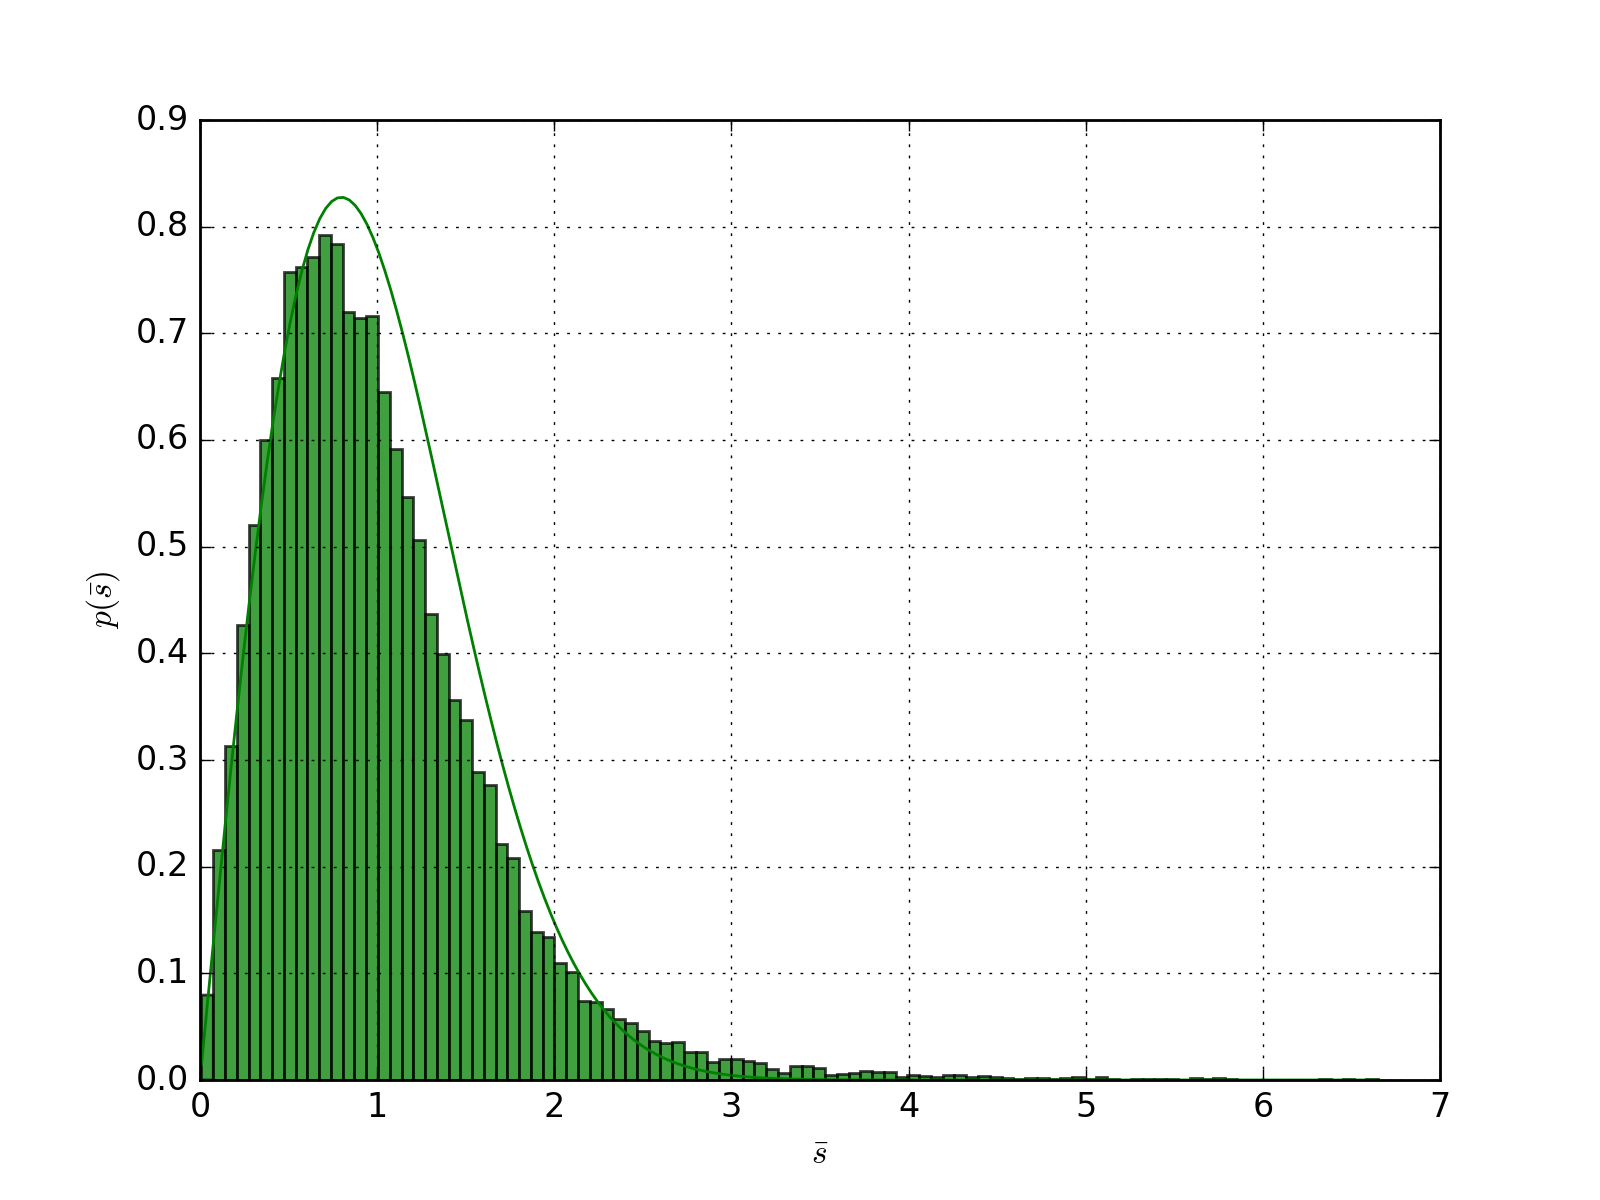
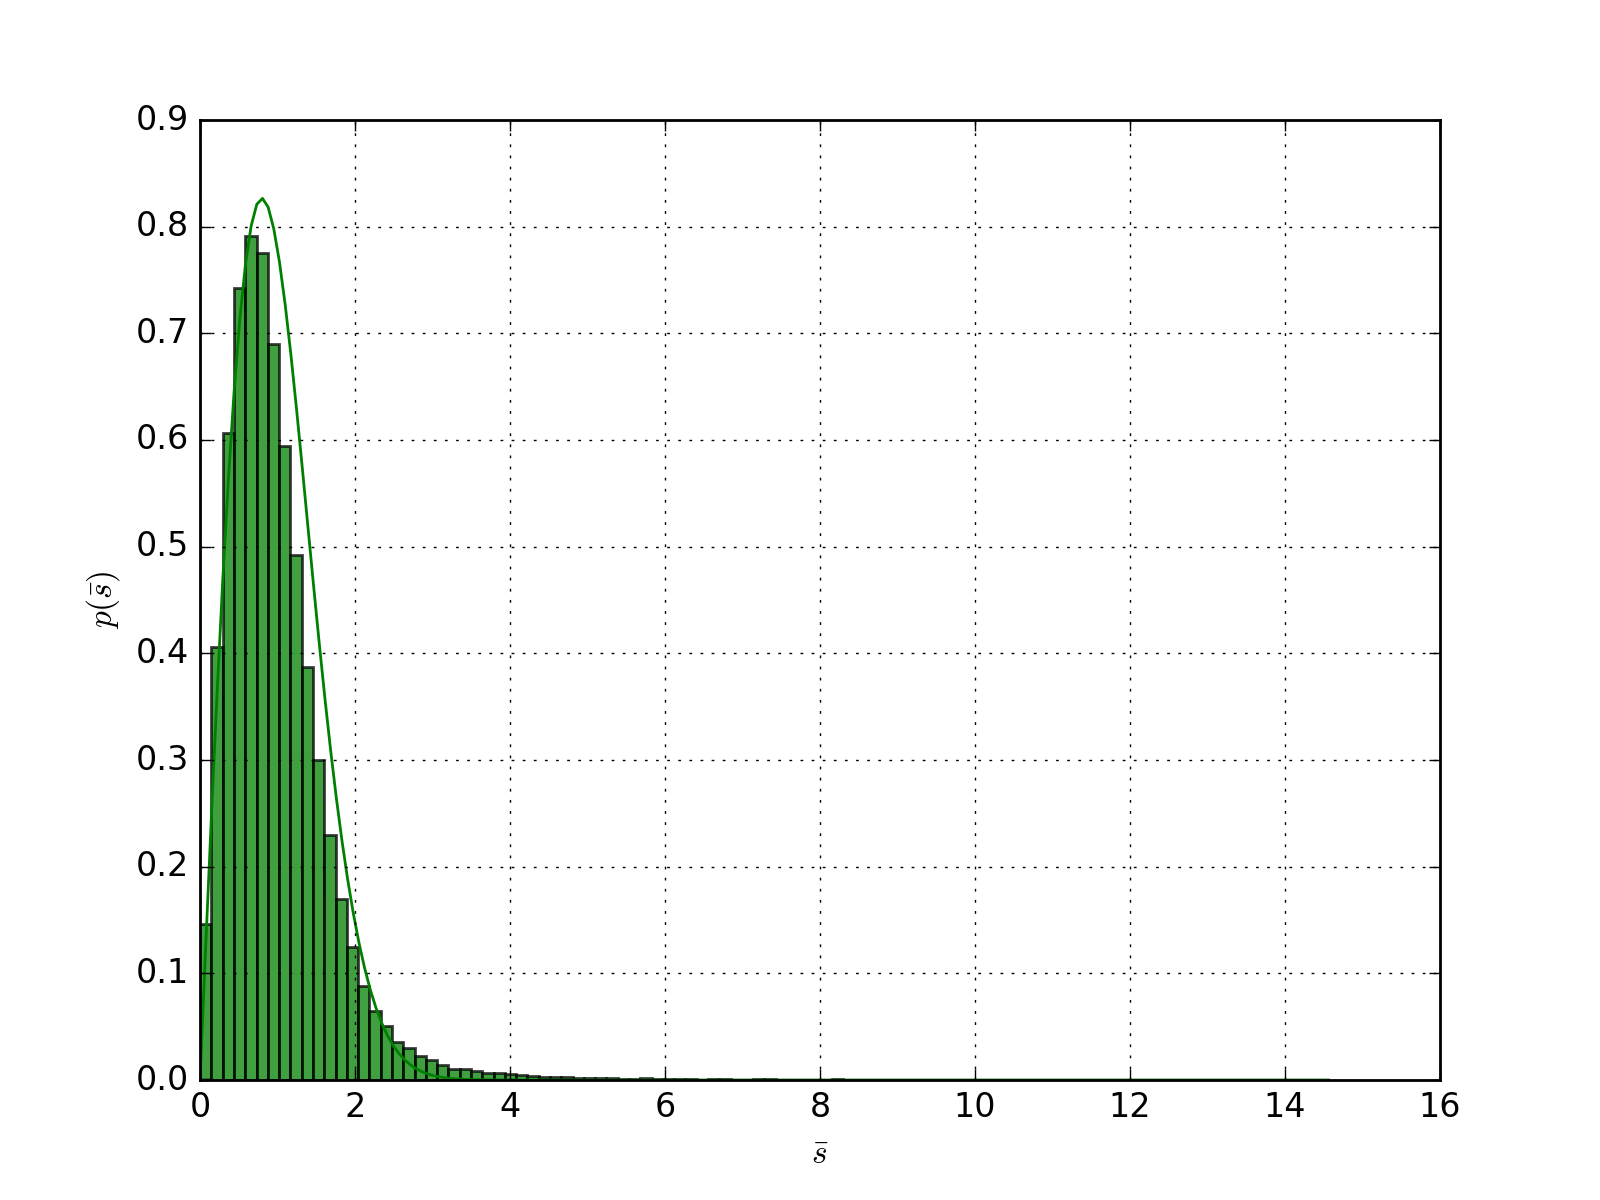
Refactoring in lab4

diff --git a/scripts/lab4.py b/scripts/lab4.py
@@ -28,16 +28,27 @@ def plotRhoHist(data, xLabel, yLabel, fileName, color):
     plt.savefig(fileName, format = 'png', dpi = 200)
     plt.clf()
 
-def plotHist():
-    pass
+def plotLevelSpacingsHist(data, xLabel, yLabel, testDistr,
+        distrArgMax, fileName, color):
+    plt.xlabel(xLabel)
+    plt.ylabel(yLabel)
+    n, bins, _ = plt.hist(data, 100, normed = True,
+        facecolor = color, alpha = 0.75)
+
+    c = np.amax(n) / testDistr(distrArgMax)
+    f = np.vectorize(lambda x: c*testDistr(x))
+    sGrid = np.linspace(np.amin(bins), np.amax(bins), 200)
+    plt.plot(sGrid, f(sGrid), color[0] + '-')
+
+    plt.grid()
+    plt.savefig(fileName, format = 'png', dpi = 200)
+    plt.clf()
 
 def main():
 
     np.random.seed(10)
-
-    size = 100
-    nImpls = 300
-    nBins = 100
+    size = 1000
+    nImpls = 100
 
     goeEigens = []
     gueEigens = []
@@ -67,36 +78,13 @@ def main():
     goeSplits = np.array(goeSplits).reshape(nImpls*len(goeSplits[0]))
     gueSplits = np.array(gueSplits).reshape(nImpls*len(gueSplits[0]))
 
-    plt.xlabel(r'$\bar{s}$')
-    plt.ylabel(r'$p(\bar{s})$')
-    n, bins, patches = plt.hist(goeSplits, 100, normed = True,
-        facecolor = 'green', alpha = 0.75)
+    plotLevelSpacingsHist(goeSplits, r'$\bar{s}$', r'$p(\bar{s})$',
+        lambda x: x*np.exp(-np.pi * 0.25 * x**2), 2. / np.pi,
+        '../pictures/lab4_goe_split_hist.png', 'green')
 
-    f = lambda x: x*np.exp(-np.pi / 4. * x**2)
-    c = np.amax(n) / f(2. / np.pi) #np.pi / 2.
-    f = np.vectorize(lambda x: c*x*np.exp(-np.pi / 4. * x**2))
-    sGrid = np.linspace(np.amin(bins), np.amax(bins), 200)
-    plt.plot(sGrid, f(sGrid), 'g-')
-
-    print(np.amax(n), f(2. / np.pi))
-    plt.grid()
-    plt.savefig('../pictures/lab4_goe_split_hist.png', format = 'png', dpi = 200)
-    plt.clf()
-
-    plt.xlabel(r'$\bar{s}$')
-    plt.ylabel(r'$p(\bar{s})$')
-    n, bins, patches = plt.hist(gueSplits, 100, normed = True,
-        facecolor = 'red', alpha = 0.75)
-
-    f = lambda x: x**2*np.exp(-4. / np.pi * x**2)
-    c = np.amax(n) / f(np.sqrt(np.pi) / 2.) #32. / np.pi**2
-    f = np.vectorize(lambda x: c*x**2*np.exp(-4. /np.pi * x**2))
-    sGrid = np.linspace(np.amin(bins), np.amax(bins), 200)
-    plt.plot(sGrid, f(sGrid), 'r-')
-
-    plt.grid()
-    plt.savefig('../pictures/lab4_gue_split_hist.png', format = 'png', dpi = 200)
-    plt.clf()
+    plotLevelSpacingsHist(gueSplits, r'$\bar{s}$', r'$p(\bar{s})$',
+        lambda x: x**2*np.exp(-4. / np.pi * x**2), np.sqrt(np.pi) / 2.,
+        '../pictures/lab4_gue_split_hist.png', 'red')
 
 if __name__ == '__main__':
     main()
